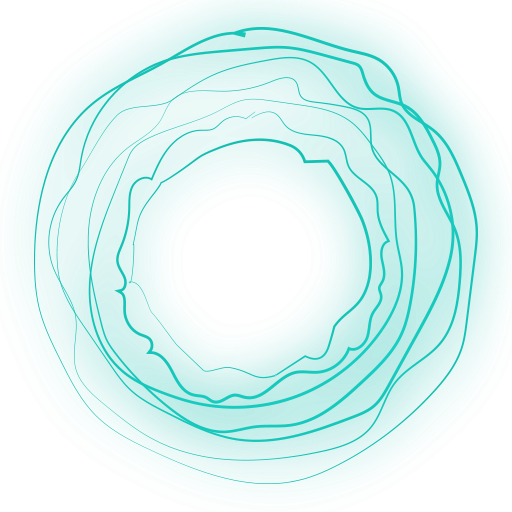
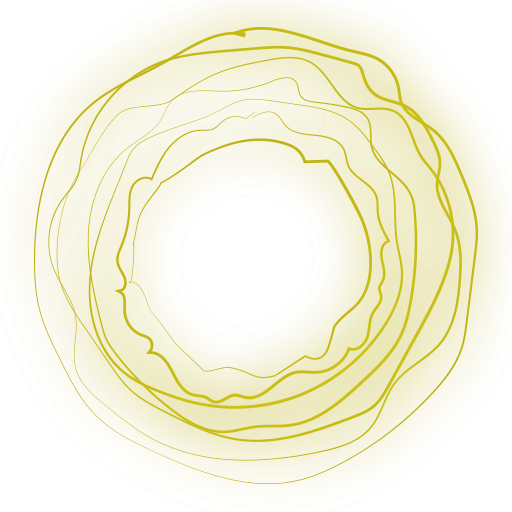
Loading updates.

diff --git a/js/LoadingPanel.js b/js/LoadingPanel.js
@@ -15,7 +15,11 @@ function createLoadingPanel(renderer, scale){
 
 var    donutMaterials = [],
        textureIndex = 0,
-       lastTextStartTime = 0;
+       lastTextStartTime = 0,
+       percent = 0,
+       started = false,
+       particleGroup,
+       particles = [];
 
    var panel = createPanel(renderer, width, height, {foregroundGlow: true});
 
@@ -33,23 +37,41 @@ var    donutMaterials = [],
            '}'
        ].join('\n'),
        fragmentShader: [
+           '#define PI 3.141592653589793238462643',
            'varying vec2 vUv;',
            'uniform float currentTime;',
            'uniform sampler2D tDiffuse;',
 
            'void main() {',
-           '  gl_FragColor = texture2D(tDiffuse, vUv);',
+           '  float radians = 2.0 * currentTime * PI;', 
+           '  gl_FragColor = vec4(0.0, 0.0, 0.0, 0.0);',
+
 
            '  if(vUv.x - .5 > 0.0){',
-           '    if((vUv.x - .5) / (vUv.y - .5) > currentTime){',
-           '      gl_FragColor = vec4(0.0, 0.0, 0.0, 0.0);',
+           '    if(currentTime > .5 || ((vUv.y - .5) / (vUv.x - .5) > cos(radians) / sin(radians))){',
+           '      gl_FragColor = texture2D(tDiffuse, vUv);',
            '    }',
            '  }',
-           '  if(vUv.x - .5 < 0.0){',
-           '    if((vUv.x - .5) / (vUv.y - .5) > currentTime){',
-           '      gl_FragColor = vec4(0.0, 0.0, 0.0, 0.0);',
+           '  if(vUv.x - .5 < 0.0 && currentTime > .5){',
+           '    if(currentTime >= 1.0 || ((vUv.y - .5) / (vUv.x - .5) > cos(radians) / sin(radians))){',
+           '      gl_FragColor = texture2D(tDiffuse, vUv);',
            '    }',
            '  }',
+           // '  if(vUv.x - .5 < 0.0){',
+           // '    if((vUv.y - .5) / (vUv.x - .5) < cos(PI + radians) / sin(PI + radians)){',
+           // '      gl_FragColor = vec4(0.0, 0.0, 0.0, 0.0);',
+           // '    }',
+           // '  }',
+           // '  if(vUv.x - .5 > 0.0 && vUv.y - .5 < 0.0){',
+           // '    if((vUv.x - .5) / (vUv.y - .5) > sin(radians) / cos(radians)){',
+           // '      gl_FragColor = vec4(0.0, 0.0, 0.0, 0.0);',
+           // '    }',
+           // '  }',
+           // '  if(vUv.x - .5 < 0.0){',
+           // '    if((vUv.x - .5) / (vUv.y - .5) > currentTime){',
+           // '      gl_FragColor = vec4(0.0, 0.0, 0.0, 0.0);',
+           // '    }',
+           // '  }',
 
            /*'  float bulletPercent = clamp((currentTime - bulletStartTime) / bulletDuration, 0.0, 1.0);',
            '  float textInPercent = clamp((currentTime - textInStartTime) / textInDuration, 0.0, 1.0);',
@@ -81,18 +103,16 @@ var    donutMaterials = [],
         var backgroundPlane = new THREE.Mesh( backgroundGeometry, backgroundMaterial );
         backgroundPlane.position.set(width/2, height/2, 0);
         panel.addToScene( backgroundPlane );
-        console.log(panel);
 
     }
 
     function createCircles(){
         var backgroundTexture = THREE.ImageUtils.loadTexture("images/loading-circles.png", undefined, LOADSYNC.register() );
-        var backgroundMaterial = new THREE.MeshBasicMaterial( {map: backgroundTexture, transparent: true } );
+        var backgroundMaterial = new THREE.MeshBasicMaterial( {map: backgroundTexture, transparent: true, color: 0xff8d07 } );
         var backgroundGeometry = new THREE.PlaneGeometry( 400 * scale, 400 * scale);
         var backgroundPlane = new THREE.Mesh( backgroundGeometry, backgroundMaterial );
         backgroundPlane.position.set(width/2, height/2, 0);
         panel.addToScene( backgroundPlane );
-        console.log(panel);
 
     }
 
@@ -112,24 +132,58 @@ var    donutMaterials = [],
         material.transparent = true;
         donutMaterials.push(material);
         var plane = new THREE.Mesh( geometry, material );
-        plane.position.set(height/2, width/2, 1);
+        plane.position.set(height/2, width/2, 10);
         panel.addToScene( plane );
 
     }
 
+   function createPointCloud(){
+
+       if(!particleGroup){
+           particleGroup = new THREE.Group();
+           particleGroup.applyMatrix( new THREE.Matrix4().makeTranslation( 200*scale, 200*scale, 0 ) );
+           panel.addToScene(particleGroup);
+       }
+
+       var geometry = new THREE.Geometry();
+       var sprite = THREE.ImageUtils.loadTexture( "images/links-particles.png", undefined, LOADSYNC.register() );
+
+       for(var i = 0; i< 250; i+=1){
+           var d = Math.random() * Math.PI * 2;
+           var l = Math.random() * 100 * scale + 100 * scale;
+           geometry.vertices.push( new THREE.Vector3(l*Math.cos(d), l*Math.sin(d), 5) );
+       }
+       // for (var  i = 0; i < 400; i+=30  ) {
+       //     for(var j = 0; j< 400; j+=30){
+
+       //         geometry.vertices.push( new THREE.Vector3(i, 100, 5) );
+       //     }
+       // }
+
+       var material = new THREE.PointCloudMaterial( { opacity: 1, size: 5 * scale, map: sprite, transparent: true, blending:THREE.AdditiveBlending, color: 0xff8d07/*0x10b0a0*/, sizeAttenuation: false } );
+
+
+       particles.push(new THREE.PointCloud( geometry, material ));
+       particleGroup.add(particles[particles.length-1]);
+
+   }
+
     function init(){
+
 
         // load images
 
         createBackground();
         createCircles();
+        for(var i =0; i< 5; i++){
+            createPointCloud();
+        }
+
 
         donutImages.forEach(function(url){
-            console.log(url);
             createDonut(url);
         });
 
-        console.log("GOT IT");
 
 
 
@@ -137,9 +191,26 @@ var    donutMaterials = [],
     }
 
     function render(time){
+
+        if(!started && time > 0){
+            new TWEEN.Tween({t: 0})
+                .to({t: 1}, 10000)
+                .onUpdate(function(){
+                    percent = this.t;
+            })
+            .start();
+
+            started = true;
+        }
         donutMaterials.forEach(function(donut, index){
-            donut.uniforms.currentTime.value = time - index * 10;
+            donut.uniforms.currentTime.value = percent;
         });
+
+        if(particleGroup){
+            particles.forEach(function(particles, index){
+                particles.rotation.z = -time * (.5 + index/10);
+            });
+        }
 
         /*
         if(lastTextStartTime + ROTATE_TIME < time){
